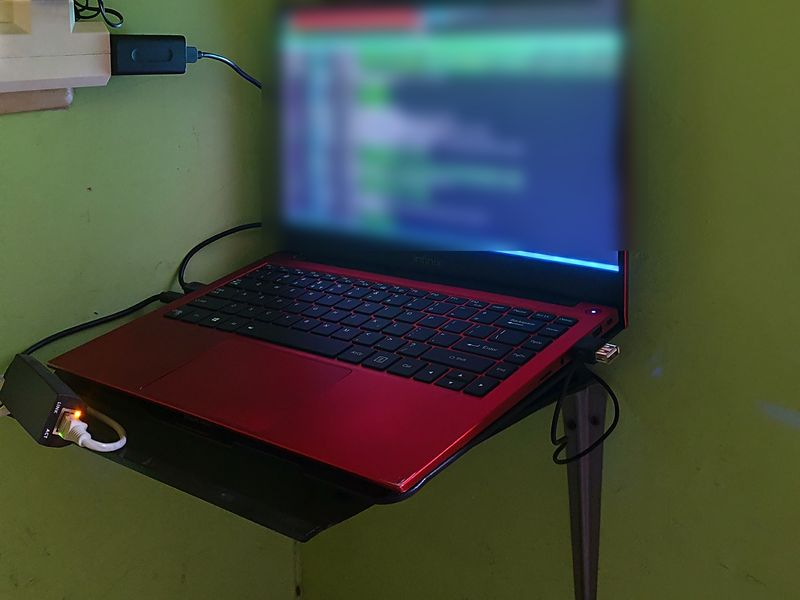
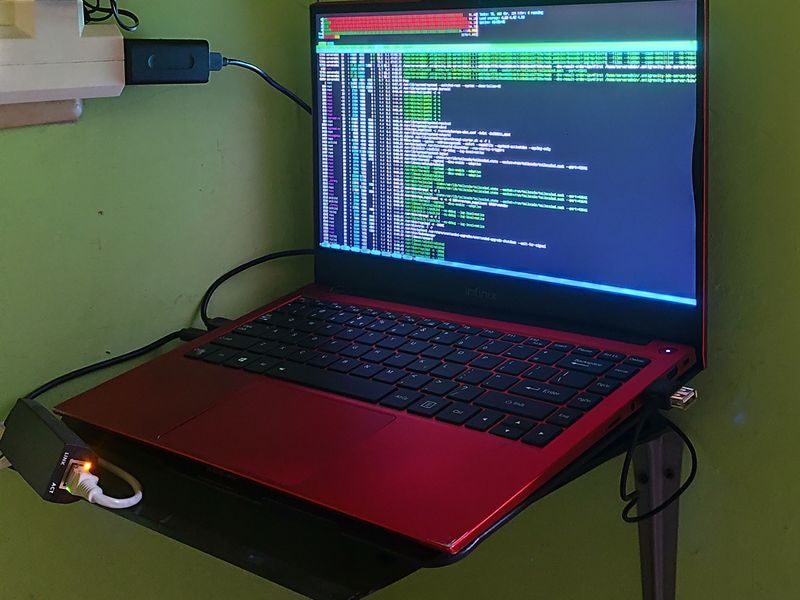
fix(systems): recentre the hero crop and keep the terminal readable

diff --git a/public/systems/index.html b/public/systems/index.html
@@ -78,7 +78,7 @@
           <img src="../assets/images/home-server.jpg"
                srcset="../assets/images/home-server-800.jpg 800w, ../assets/images/home-server.jpg 1600w"
                sizes="(max-width: 767px) 90vw, 40vw"
-               alt="An Infinix INBook X1 laptop mounted on a wall bracket, wired by Ethernet, running a terminal session with the screen blurred"
+               alt="An Infinix INBook X1 laptop mounted on a wall bracket, wired by Ethernet, running a live terminal session"
                width="1600" height="1200" loading="eager" decoding="async">
           <figcaption>INBOOK X1 / ACTIVE NODE</figcaption>
         </figure>
